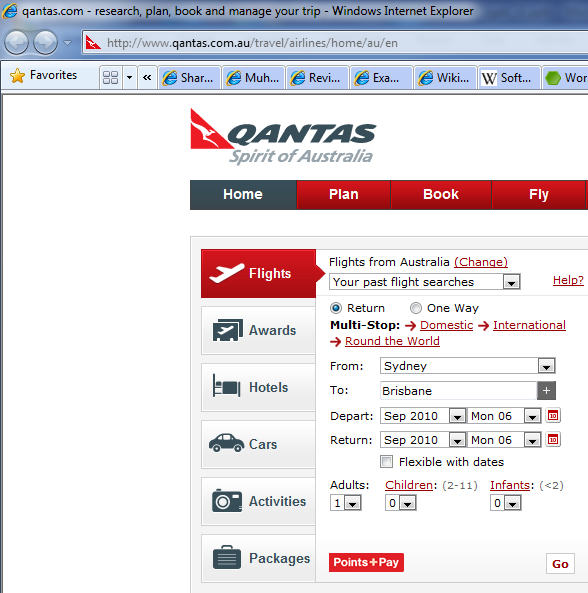
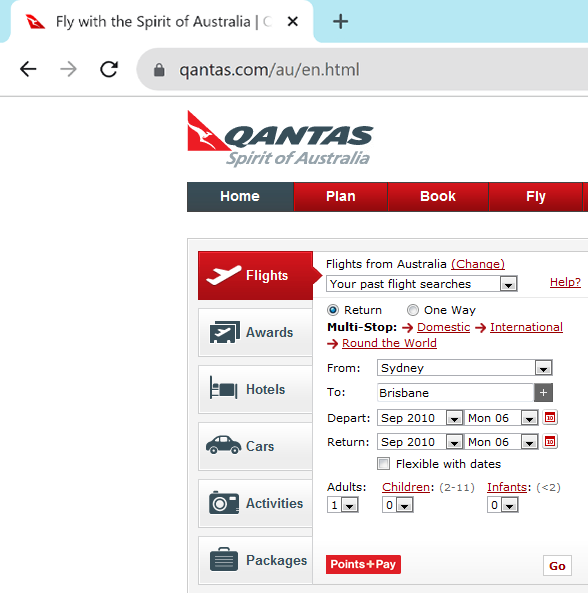
XS✔ ◾ Add files via upload (#7384)
* Add files via upload

updating quantus image with modern browser

* Update rule.md

reverting caption text

Changed region(s): [[0.3061, 0.3946, 1.0, 1.0], [0.0, 0.0, 1.0, 1.0], [0.9184, 0.4553, 1.0, 0.4857]]

diff --git a/rules/do-you-have-a-call-to-action-on-your-web-pages-aka-the-banana-rule/rule.md b/rules/do-you-have-a-call-to-action-on-your-web-pages-aka-the-banana-rule/rule.md
@@ -29,7 +29,7 @@ How would you get a monkey pay attention to something? You could lure him by tem
 This is how the "banana rule" should be applied:
 
 ::: bad  
-![Figure: Bad Example – There is no obvious call to action or "banana" on this page](BadBananaAquaPro.PNG)  
+![Figure: Bad Example – "Points+Pay"button takes the attention over "Go" which should be the "banana"](BadBananaQantus.png)  
 :::
 So, remember most pages need a "banana" to get them to where you want them. "Bananas" are big, simple and stand out from the rest of the page
 
